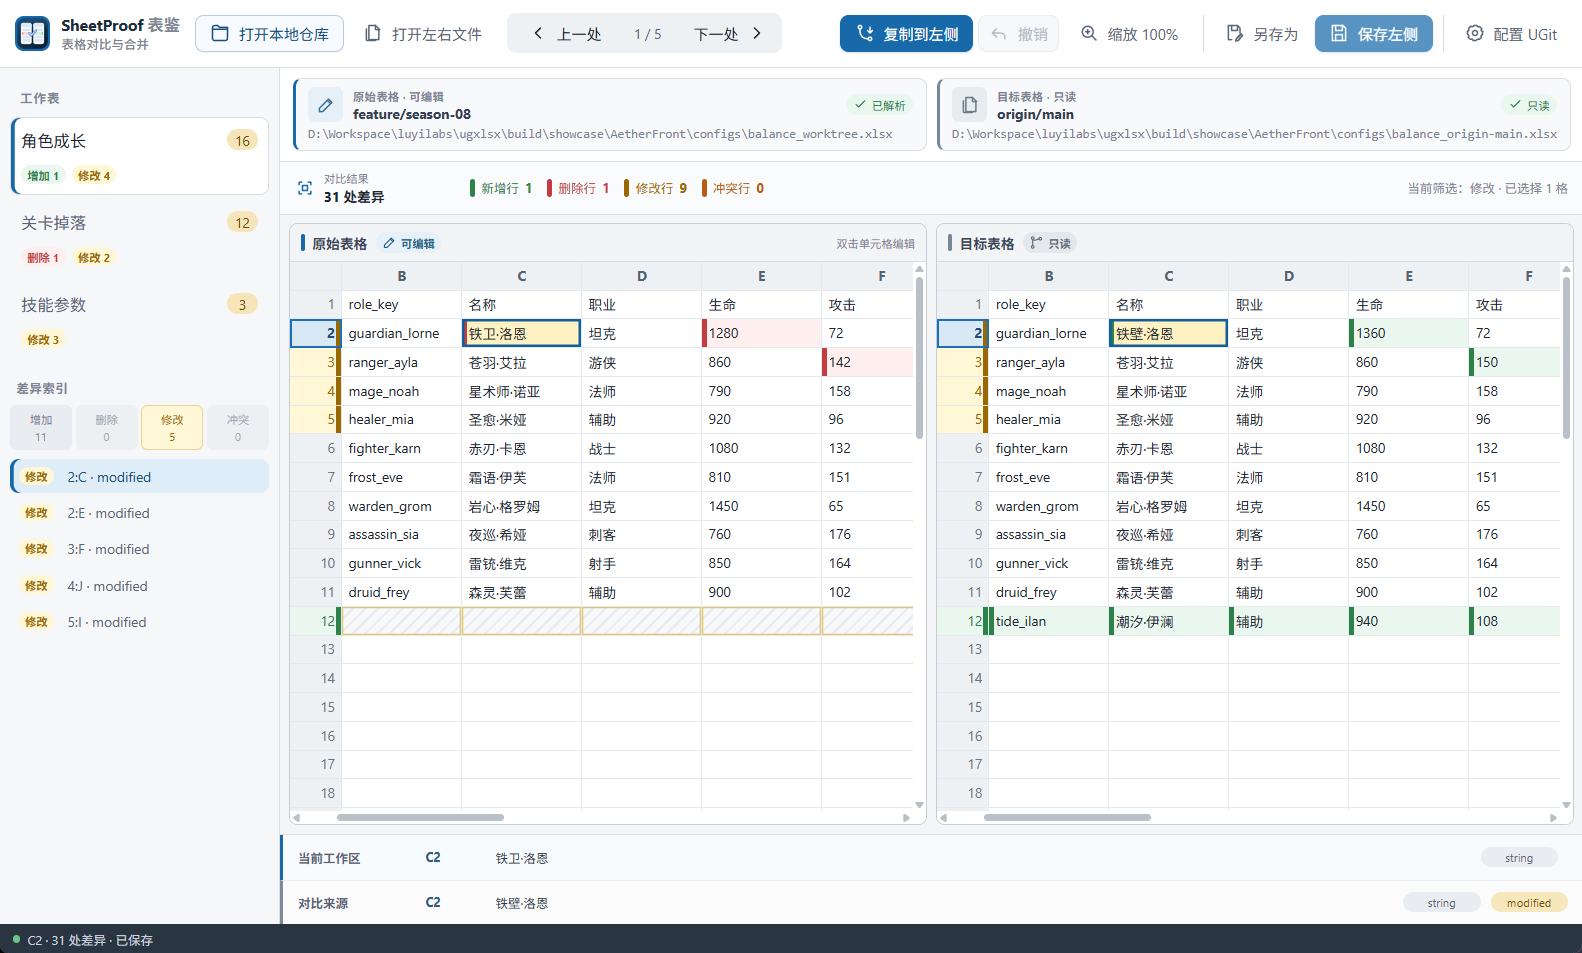
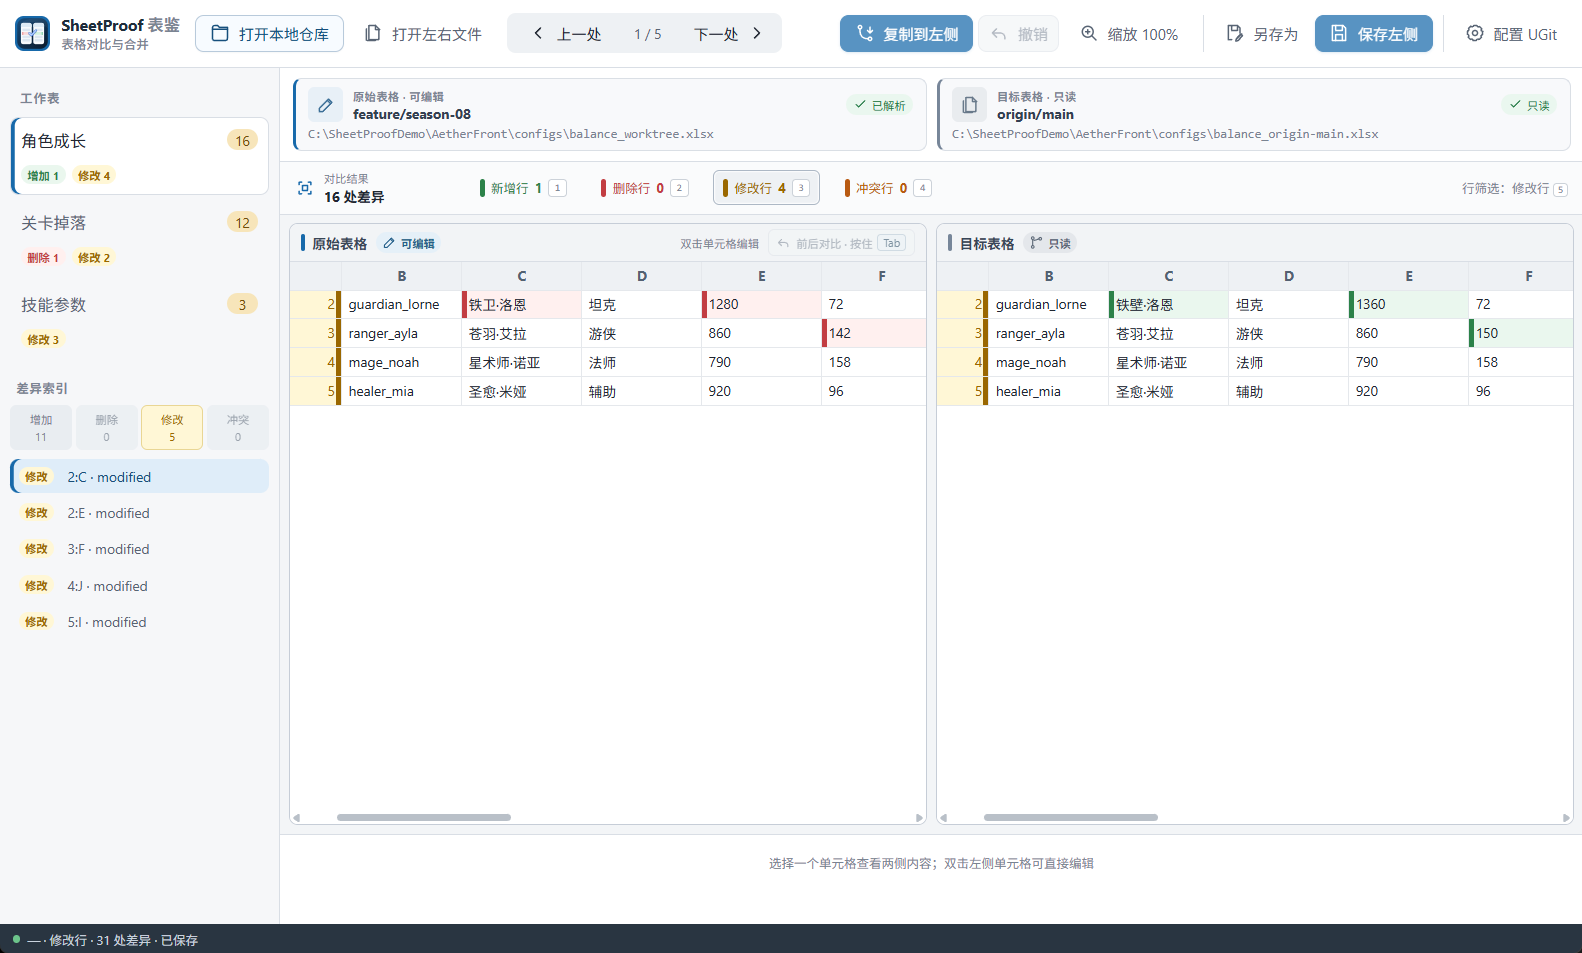
Release SheetProof v0.1.0

diff --git a/docs/manual-acceptance.md b/docs/manual-acceptance.md
@@ -321,3 +321,6 @@ SheetProof compare \
    universal artifacts，但不会创建 Release；推送与产品版本一致的测试标签时，确认只
    创建 Draft Release，并包含两个平台产物与 `SHA256SUMS.txt`。正式标签只能在准备
    发布时使用，不能为了验收污染公开版本记录。
+8. 对最终 Windows/macOS 产物做字符串隐私扫描，确认不包含构建者用户目录、仓库工作区
+   路径、密钥或令牌。Windows 离线入口与 Release workflow 必须保留 Go `-trimpath`；
+   官网与 README 的产品截图只能显示通用演示数据和不指向真实工作区的演示路径。

diff --git a/.agents/skills/sheetproof-development/SKILL.md b/.agents/skills/sheetproof-development/SKILL.md
@@ -155,6 +155,9 @@ manual flow passed unless it was actually exercised and visually inspected.
 - Keep `.github/workflows/release.yml` aligned with the product version. A `v*` tag creates a draft
   release with Windows/macOS assets and checksums. Do not describe unsigned or unnotarized builds
   as signed releases.
+- Keep Go `-trimpath` enabled in the offline Windows launcher and GitHub Release builds. Scan final
+  desktop artifacts for embedded builder home/workspace paths as well as credentials before
+  publishing them.
 
 ## Prepare a formal release
 

diff --git a/README.md b/README.md
@@ -65,6 +65,8 @@ powershell -ExecutionPolicy Bypass -File scripts/invoke-wails.ps1 build
 .\build\bin\SheetProof.exe
 ```
 
+该入口会为桌面构建启用 Go `-trimpath`，避免把本机构建目录写入可执行文件；GitHub Release 的双平台构建使用同一约束。
+
 macOS/Linux 构建：
 
 ```bash
